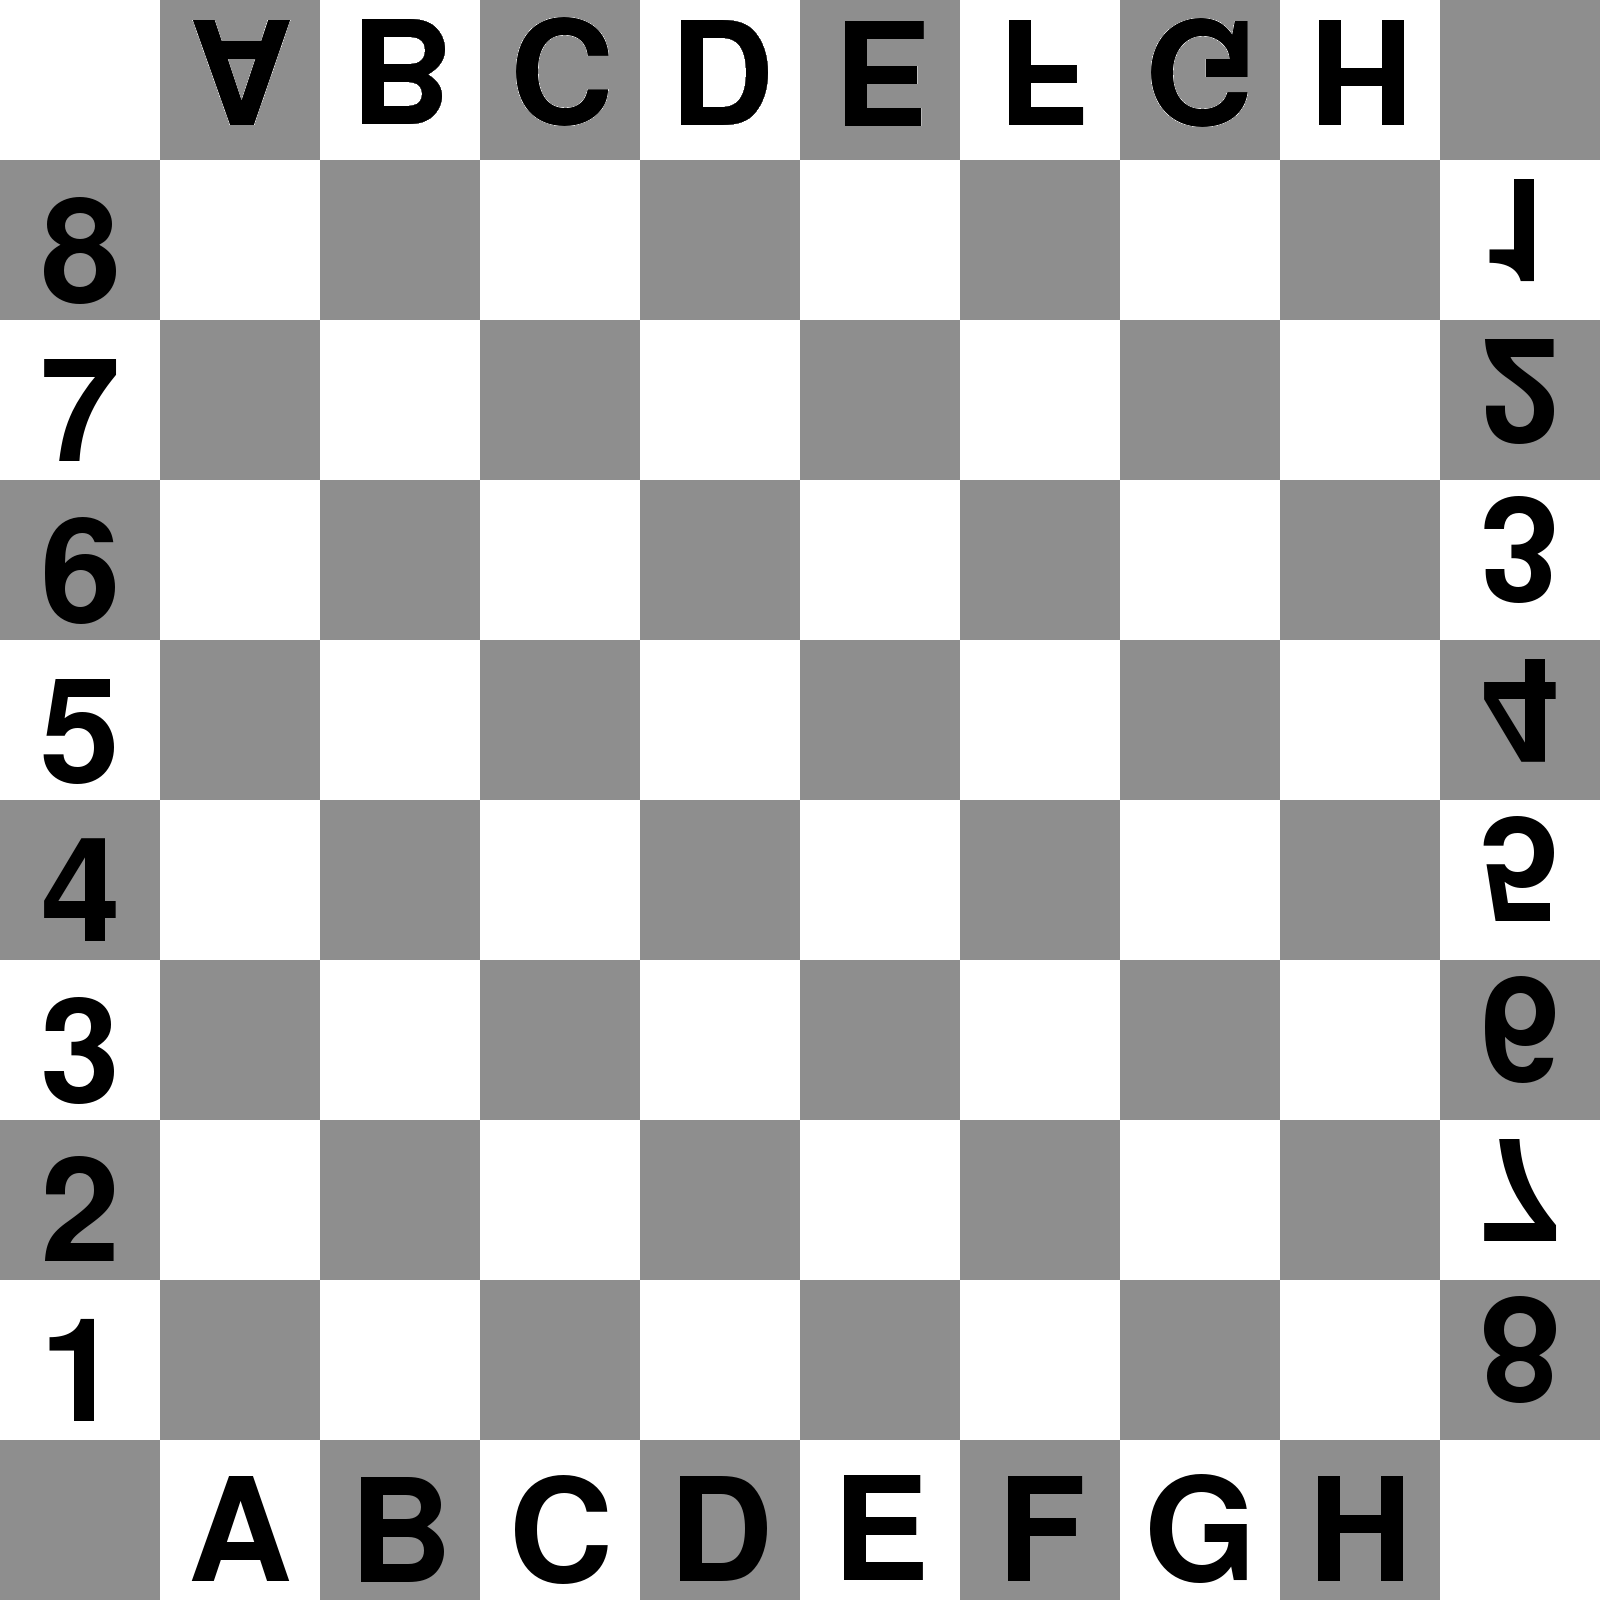
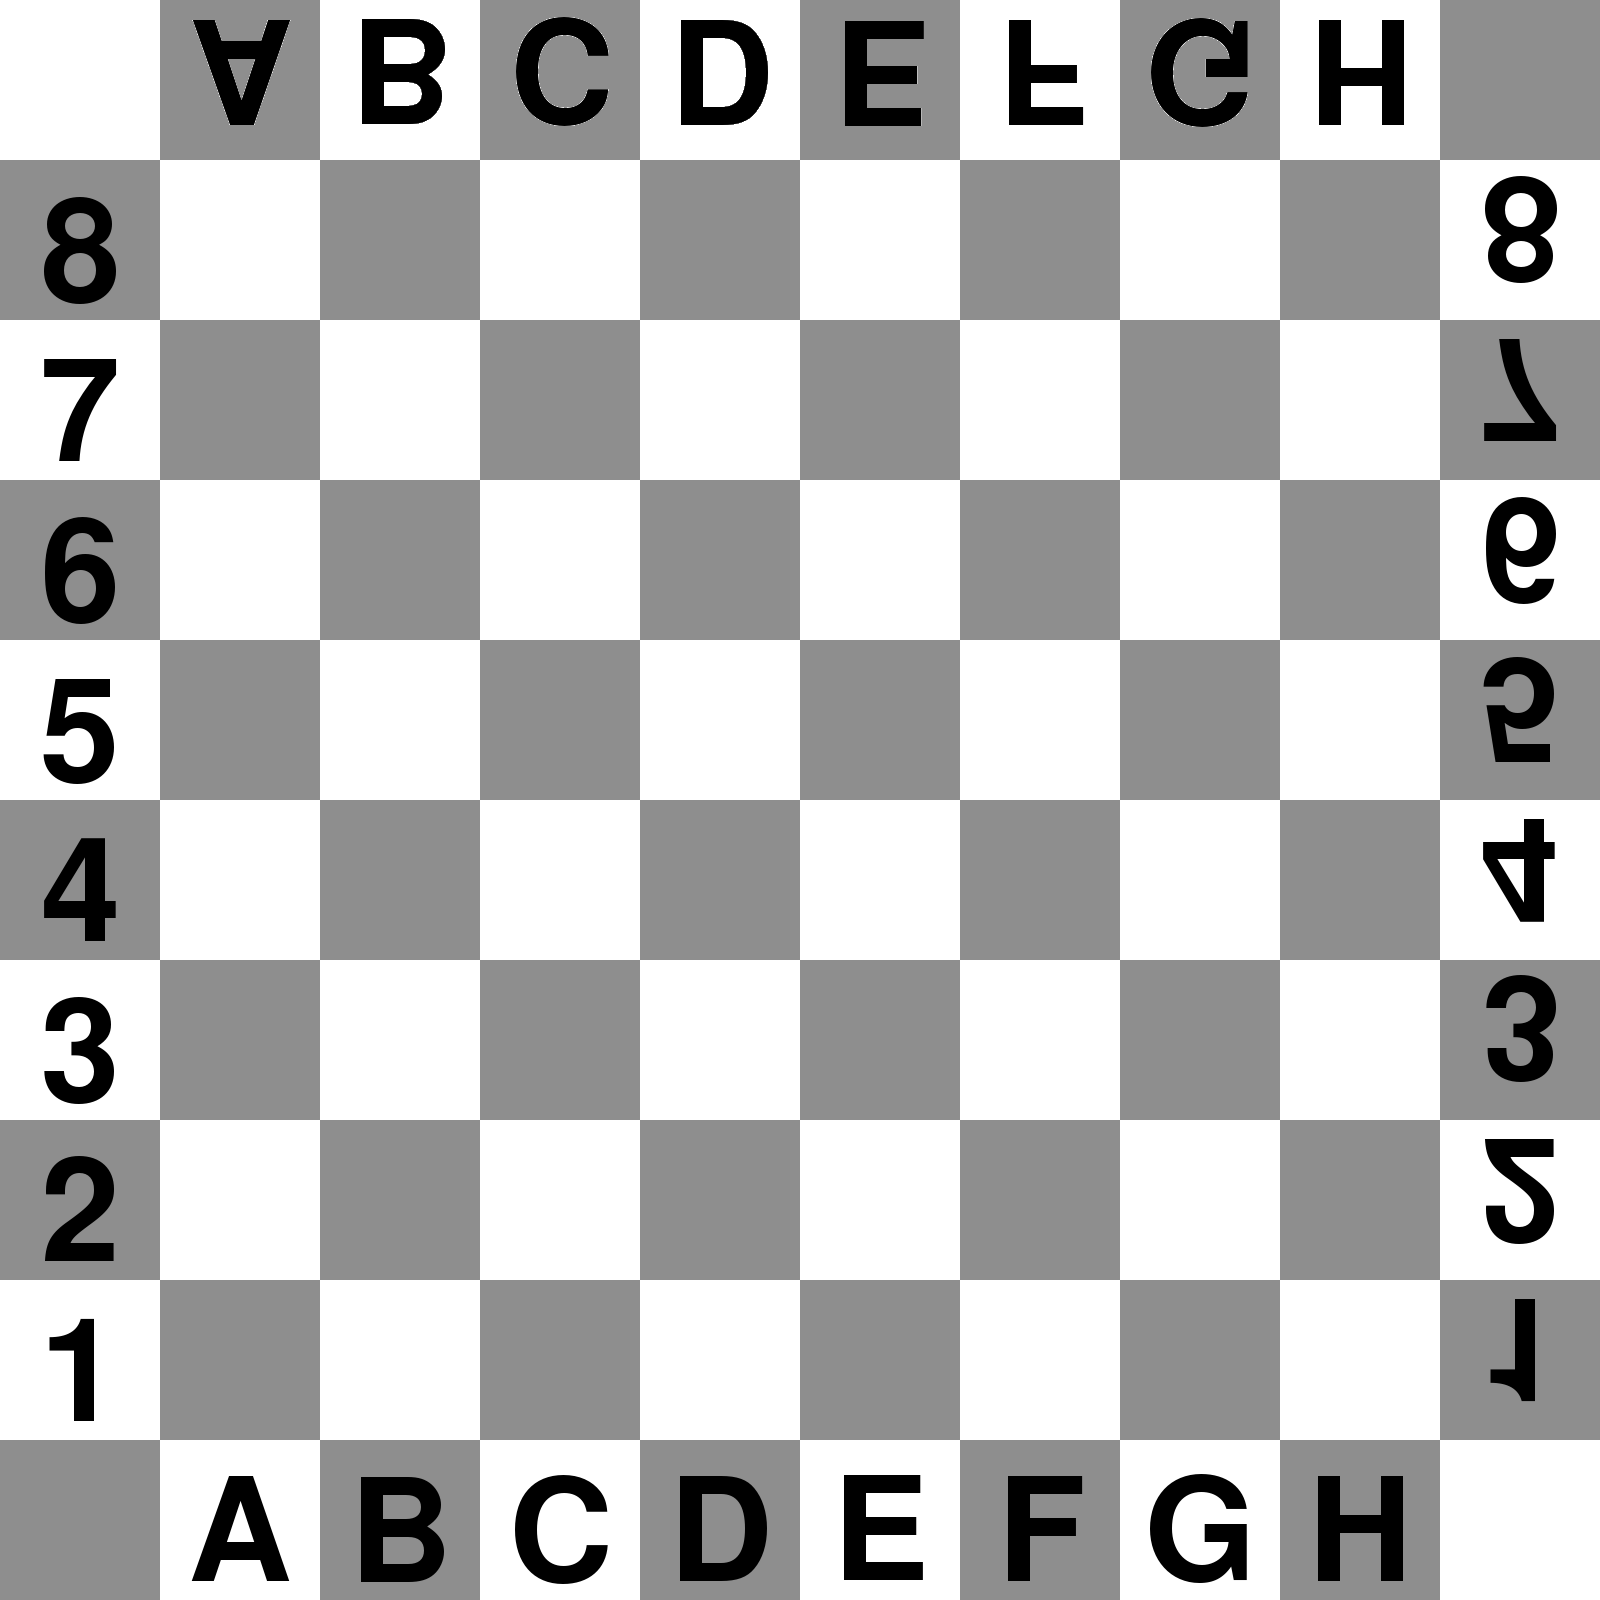
- fixed board image and flipping of board image

diff --git a/src/iceGUI/BoardArea.java b/src/iceGUI/BoardArea.java
@@ -7,6 +7,7 @@ import ice.gameBoard;
 import java.awt.Color;
 import java.awt.Dimension;
 import java.awt.Graphics;
+import java.awt.Graphics2D;
 import java.awt.Image;
 import java.awt.event.MouseEvent;
 import java.util.ArrayList;
@@ -29,6 +30,7 @@ public class BoardArea extends JPanel implements MouseInputListener {
 	private gameBoard gb;
 	private BoardPanel bp;
 	private ImageIcon boardImage = new ImageIcon("resources/board.png");
+	private ImageIcon boardRevImage = new ImageIcon("resources/boardRev.png");
 	
 	public BoardArea(BoardPanel bp){
 		super();
@@ -94,7 +96,7 @@ public class BoardArea extends JPanel implements MouseInputListener {
 					break;
 			}
 		} else {
-				switch(p.type()){
+			switch(p.type()){
 				case 'K':
 					pieceGraphics.add(new PieceGraphic(new ImageIcon("resources/orig/blackKing.png"), xy, p));
 					break;
@@ -183,18 +185,23 @@ public class BoardArea extends JPanel implements MouseInputListener {
 	}
 	
 	private void drawBoardGraphic(Graphics g, Dimension size){
-		Image img = boardImage.getImage();
-		g.drawImage(img, 0, 0, size.width, size.height, this);
+		if(flipBoard){
+			Image imgRev = boardRevImage.getImage();
+			g.drawImage(imgRev, 0, 0, size.width, size.height, this);
+		} else {
+			Image img = boardImage.getImage();
+			g.drawImage(img, 0, 0, size.width, size.height, this);
+		}
 	}
 	
 	protected void paintComponent(Graphics g) {
 		makeSquare();
 		Dimension size = this.getSize();
-		//drawBoardSquares(g, size);
 		drawBoardGraphic(g, size);
 		cleanPieceGraphics();
 		drawPieceGraphics(g, size);
-		drawPieceBorder(g, size);		
+		drawPieceBorder(g, size);	
+		
 	}
 	
 	private void toggleTurn(){
@@ -228,18 +235,22 @@ public class BoardArea extends JPanel implements MouseInputListener {
 	}
 	
 	private void movePiece(PieceGraphic pg, int[] moveFrom, int[] moveTo){
-		int[] move = new int[4];
-		move[0] = moveFrom[0] - 1;
-		move[1] = 8 - moveFrom[1];
-		move[2] = moveTo[0] - 1;
-		move[3] = 8 - moveTo[1];
-		Debug.debug(Arrays.toString(move), 2);
-		Move moveobj = new Move(gb, move);
-		if(gb.movePiece(moveobj)){
-			pg.moveTo(moveTo);
-			toggleTurn();
-		} else {
+		if(moveTo == null){
 			pg.moveTo(moveFrom);
+		} else {
+			int[] move = new int[4];
+			move[0] = moveFrom[0] - 1;
+			move[1] = 8 - moveFrom[1];
+			move[2] = moveTo[0] - 1;
+			move[3] = 8 - moveTo[1];
+			Debug.debug(Arrays.toString(move), 2);
+			Move moveobj = new Move(gb, move);
+			if(gb.movePiece(moveobj)){
+				pg.moveTo(moveTo);
+				toggleTurn();
+			} else {
+				pg.moveTo(moveFrom);
+			}
 		}
 		updateBoard();
 	}
@@ -272,13 +283,11 @@ public class BoardArea extends JPanel implements MouseInputListener {
 		
 	}
 
-	@Override
-	public void mouseExited(MouseEvent arg0) {
-		// TODO Auto-generated method stub
-		
+	public void mouseExited(MouseEvent e) {
+		//Debug.debug("MouseExit", 2);
+		mouseReleased(e);
 	}
 
-	@Override
 	public void mousePressed(MouseEvent e) {
 		int[] mXY = {e.getX(), e.getY()};
 		PieceGraphic pg = findPiece(convertPixelToBoard(mXY));
@@ -309,6 +318,9 @@ public class BoardArea extends JPanel implements MouseInputListener {
 				//Debug.debug("Piece released", 2);
 				movePiece(pg, draggingOldLocation, pg.getBoardPos());
 			}
+		} else if(pg == null && draggingPiece != null && draggingOldLocation != null){
+			Debug.debug("Offscreen release", 1);
+			movePiece(draggingPiece, draggingOldLocation, null);
 		}
 		draggingOldLocation = null;
 		dragging = false;

diff --git a/src/iceGUI/BoardPanel.java b/src/iceGUI/BoardPanel.java
@@ -5,6 +5,8 @@ import javax.swing.*;
 import java.awt.*;
 import java.awt.event.*;
 import java.util.ArrayList;
+
+import ice.Debug;
 import ice.Piece;
 import ice.gameBoard;
 
@@ -15,6 +17,13 @@ public class BoardPanel extends JPanel implements ActionListener{
 	JMenuItem newgame = new JMenuItem("New Game");
 	JMenuItem quit = new JMenuItem("Quit");
 	JMenuItem clearLog = new JMenuItem("Clear Log");
+	JMenu debugMenu = new JMenu("Debug Lvls");
+	JMenuItem lvl0 = new JMenuItem("0");
+	JMenuItem lvl1 = new JMenuItem("1");
+	JMenuItem lvl2 = new JMenuItem("2");
+	JMenuItem lvl3 = new JMenuItem("3");
+	JMenuItem lvl4 = new JMenuItem("4");
+	JMenuItem lvl5 = new JMenuItem("5");
 	JPanel infoPanel;
 	JPanel northInfo;
 	JPanel boardDisp;
@@ -35,6 +44,11 @@ public class BoardPanel extends JPanel implements ActionListener{
 		menu.add(newgame);
 		menu.add(clearLog);
 		menu.add(quit);
+		menubar.add(debugMenu);
+		debugMenu.add(lvl0); debugMenu.add(lvl1); debugMenu.add(lvl2);
+		debugMenu.add(lvl3); debugMenu.add(lvl4); debugMenu.add(lvl5);
+		lvl0.addActionListener(this); lvl1.addActionListener(this); lvl2.addActionListener(this);
+		lvl3.addActionListener(this); lvl4.addActionListener(this); lvl5.addActionListener(this); 
 		newgame.addActionListener(this);
 		quit.addActionListener(this);
 		flip.addActionListener(this);
@@ -45,29 +59,22 @@ public class BoardPanel extends JPanel implements ActionListener{
 		northInfo = new JPanel(new GridBagLayout());
 		GridBagConstraints gbc = new GridBagConstraints();
 		gbc.insets = new Insets(2, 10, 2, 10);
-		gbc.weighty = 0.0;
-		gbc.gridy = 0;		
-		gbc.gridx = 0;		
+		gbc.weighty = 0.0; gbc.gridy = 0; gbc.gridx = 0;		
 		northInfo.add(opponents, gbc);
-		gbc.gridy++;
-		northInfo.add(turn, gbc);
-		gbc.gridy++;
-		gbc.weighty = 1.0;
-		gbc.gridy++;
+		gbc.gridy++; northInfo.add(turn, gbc);
+		gbc.gridy++; gbc.weighty = 1.0;
 		JLabel logTitle = new JLabel("Game Log:");
-		gbc.gridy++;
-		northInfo.add(logTitle,gbc);
+		gbc.gridy++; northInfo.add(logTitle,gbc);
 		gbc.gridy++;
 		logViewer = new JTextArea(0, 10);
 		JScrollPane scrollPane = new JScrollPane(logViewer,
 				JScrollPane.VERTICAL_SCROLLBAR_AS_NEEDED,
 				JScrollPane.HORIZONTAL_SCROLLBAR_NEVER);
-		logViewer.setWrapStyleWord(true);
+		logViewer.setWrapStyleWord(true); 
 		logViewer.setEditable(false);
 		logViewer.setCaretPosition(0);
 		northInfo.add(scrollPane, gbc);
-		gbc.gridy++;
-		northInfo.add(flip, gbc);
+		gbc.gridy++; northInfo.add(flip, gbc);
 		infoPanel.add(northInfo, BorderLayout.NORTH);
 		add(infoPanel, BorderLayout.EAST);
 		ba = new BoardArea(this);
@@ -118,6 +125,12 @@ public class BoardPanel extends JPanel implements ActionListener{
 		else if(src == clearLog){
 			logViewer.setText("");
 		}
+		else if(src == lvl0) Debug.setDebugLevel(0);
+		else if(src == lvl1) Debug.setDebugLevel(1);
+		else if(src == lvl2) Debug.setDebugLevel(2);
+		else if(src == lvl3) Debug.setDebugLevel(3);
+		else if(src == lvl4) Debug.setDebugLevel(4);
+		else if(src == lvl5) Debug.setDebugLevel(5);
 	}
 
 }
